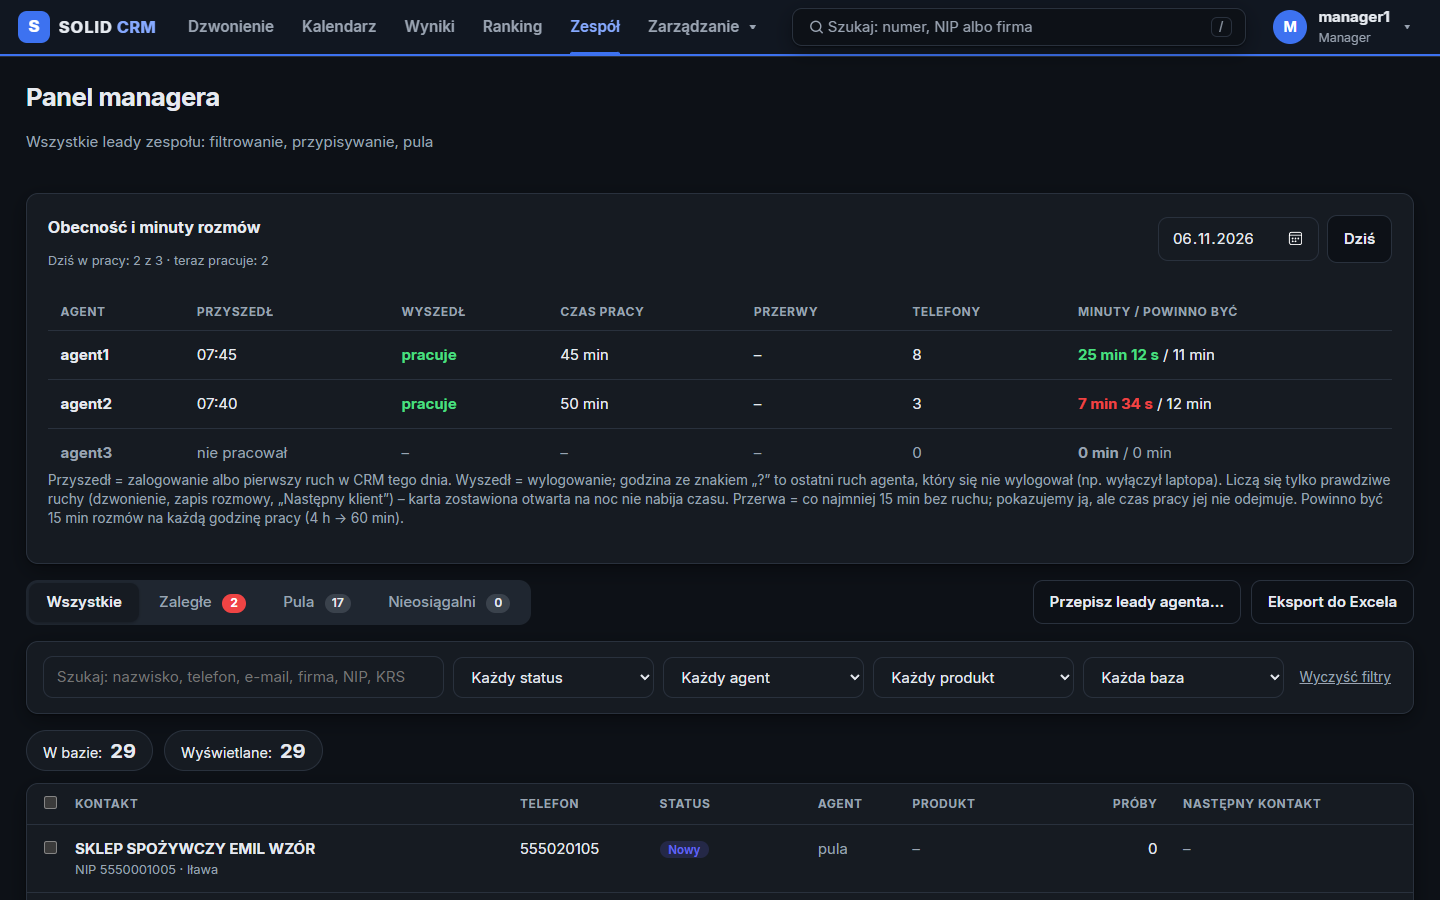
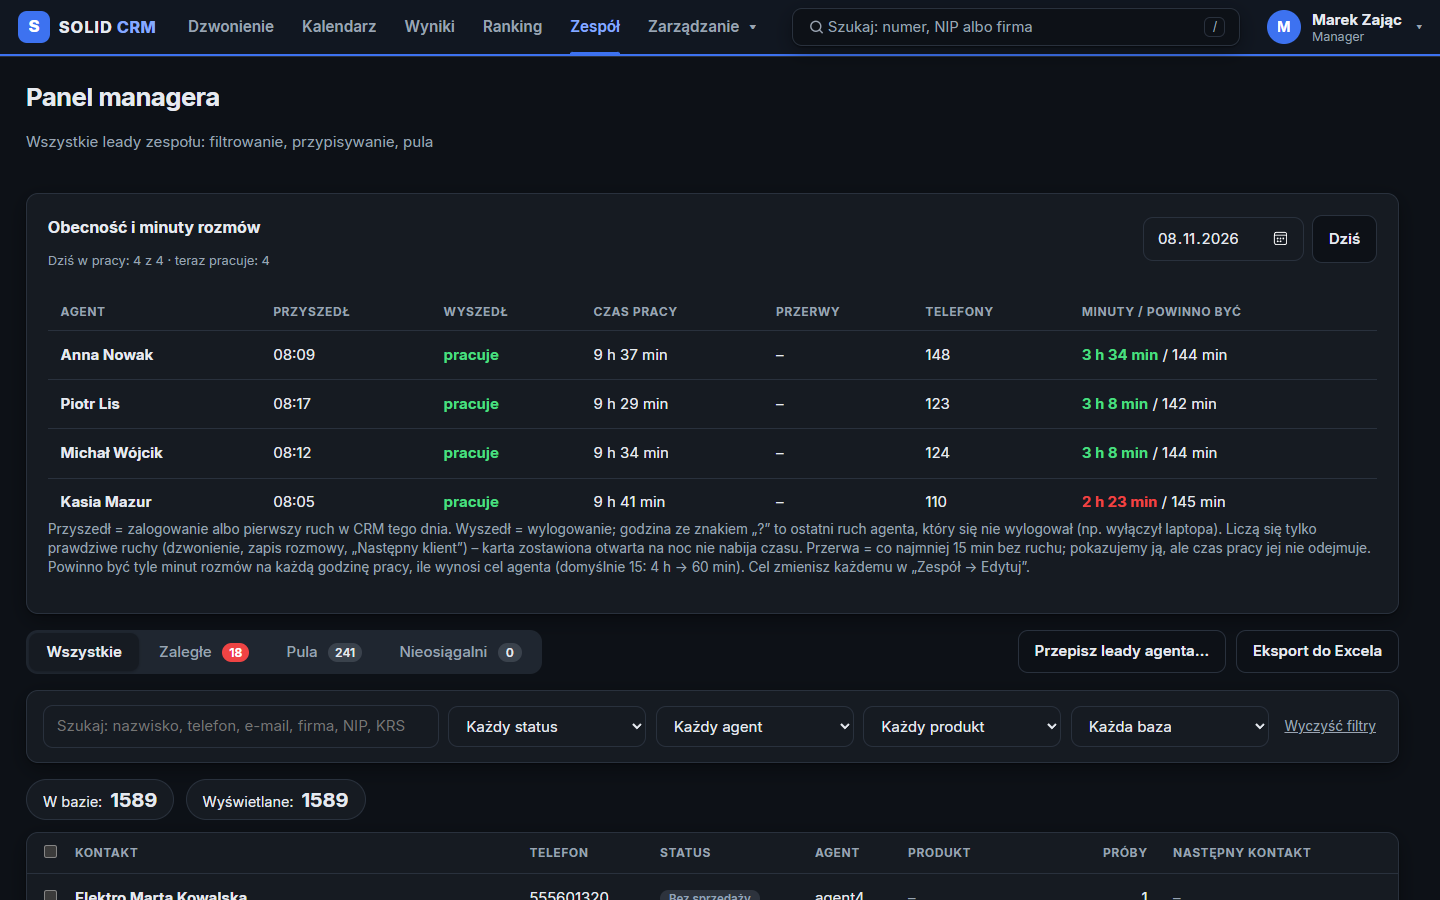
docs: refresh README and screenshots, add one-page pitch and license
- README describes the current features, endpoints and 544 tests
- 25 screenshots from a demo database (fictitious companies), incl. Solid Dialer
- docs/DLACZEGO_WARTO.md: one page on why the CRM pays off
- LICENSE: all rights reserved, use only with the author's written consent

diff --git a/docs/DLACZEGO_WARTO.md b/docs/DLACZEGO_WARTO.md
@@ -1,0 +1,36 @@
+# Dlaczego warto wdrożyć Solid CRM
+
+**Więcej rozmów na godzinę, zero zgubionych klientów, szef widzi wszystko na żywo.**
+
+![Ekran Dzwonienie](queue.png)
+
+## Agent sprzedaje więcej
+
+- **„Następny klient”**: CRM sam wybiera, do kogo dzwonić. Najpierw idą oferty i oddzwonienia, potem nowe firmy.
+- **„Zadzwoń”** wybiera numer na telefonie agenta, a czas rozmowy zapisuje się sam.
+- **Wynik jednym kliknięciem.** Termin kolejnej próby ustawia się sam.
+- **Oferta i ceny w trakcie rozmowy**, razem z kanałami TV i prowizją na żywo.
+
+## Żaden klient się nie gubi
+
+- Każdy klient ma zawsze następny krok, a follow-upy ofert same wracają na górę kolejki.
+- Kalendarz pokazuje nazwy firm, a przed umówioną rozmową telefon sam wysyła klientowi SMS z przypomnieniem.
+
+![Kalendarz](calendar.png)
+
+## Szef widzi wszystko
+
+- Na żywo: minuty rozmów, oferty, sprzedaże, prowizja i obecność każdego agenta.
+- Cała historia zostaje w firmie, także po odejściu agenta.
+
+![Wyniki zespołu](dashboard.png)
+
+## Ile to może dać (przykład)
+
+4 agentów × 10 telefonów więcej dziennie × 20 dni = **800 telefonów**.
+Przy 1 sprzedaży na 30 telefonów daje to **około 26 umów więcej miesięcznie**.
+
+## Koszt i ryzyko
+
+- **Bez opłat za stanowisko.** Tani hosting, dzwonienie z karty SIM agenta jak dotąd.
+- **Pilotaż 3–5 dni**: 1–2 agentów obok obecnego systemu, potem decyzja na podstawie liczb.
